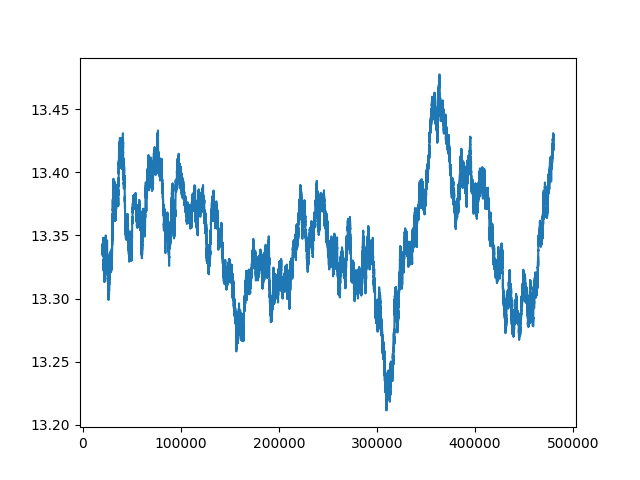
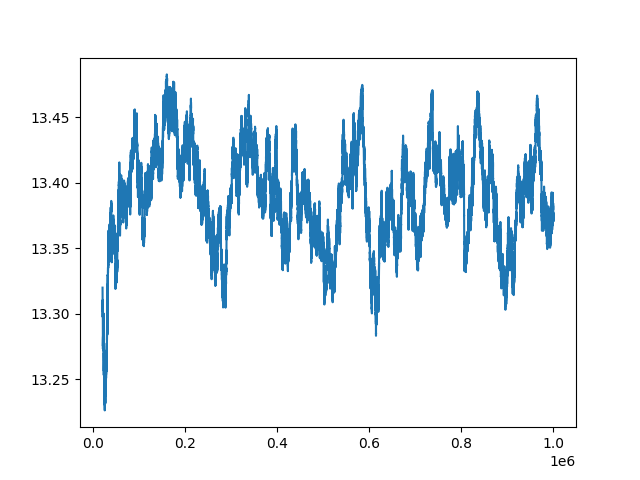
Realized I was using argmax instead of max, and implemented double DQN.

diff --git a/learning/algorithms.py b/learning/algorithms.py
@@ -3,7 +3,7 @@ ToDo:
 Integrate policy gradient.
 Implement Q-Learning
 """
-
+import copy
 import random
 import numpy as np
 import torch
@@ -109,10 +109,13 @@ class SoftSARSA(ReinforcementAlgorithm):
         trainer.networks["Q"].train(featuresTensor, rewardTensor)
 
 class SoftQ(ReinforcementAlgorithm):
+    def __init__(self):
+        self.episodeCount = 0
+
     def networks(self):
-        return ["Q"]
+        return ["Q1", "Q2"]
     def activePolicy(self):
-        return "Q"
+        return "Q1"
 
     def createRawExperience(self, trainer: ReinforcementTrainer, actionInfo: ActionInfo, stateInfo: StateInfo):
         return actionInfo, stateInfo
@@ -153,18 +156,32 @@ class SoftQ(ReinforcementAlgorithm):
                 futureWeightingBatch[i,j] = discountFactor
             i += 1
 
-        nextActionSpaceTensor = torch.from_numpy(nextActionSpaceBatch)
-        futureWeightingTensor = torch.from_numpy(futureWeightingBatch)
-        rewardTensor = torch.from_numpy(rewardBatch)
+        features = torch.from_numpy(featuresBatch)
+        nextActionSpace = torch.from_numpy(nextActionSpaceBatch)
+        futureWeighting = torch.from_numpy(futureWeightingBatch)
+        reward = torch.from_numpy(rewardBatch)
 
         with torch.no_grad():
-            nextStateValuation = trainer.networks["Q"](nextActionSpaceTensor)
-            discountedRewards = futureWeightingTensor * nextStateValuation
-            argMaxedRewards = torch.argmax(discountedRewards, dim=1)
-            rewardTensor = argMaxedRewards + rewardTensor
-        featuresTensor = torch.from_numpy(featuresBatch)
+            stateValuation = futureWeighting * trainer.networks["Q1"](nextActionSpace)
+            indexOfSelectedAction = torch.argmax(stateValuation, dim=1)
+            selectedAction = nextActionSpace[range(batchSize), indexOfSelectedAction.flatten()]
+            futureWeighting = futureWeighting[range(batchSize), indexOfSelectedAction.flatten()]
+            stateValuation = futureWeighting * trainer.networks["Q2"](selectedAction)
+            reward += stateValuation
 
-        trainer.networks["Q"].train(featuresTensor, rewardTensor)
+        trainer.networks["Q1"].train(features, reward)
+
+        self.swapNetworks(trainer)
+
+    def swapNetworks(self, trainer: ReinforcementTrainer):
+        self.episodeCount += 1
+        if self.episodeCount > Configuration.load().swapNetworkPeriod:
+            self.episodeCount = 0
+            #trainer.networks["Q1"] = copy.deepcopy(trainer.networks["Q2"])
+            temp = trainer.networks["Q1"]
+            trainer.networks["Q1"] = trainer.networks["Q2"]
+            trainer.networks["Q2"] = temp
+            trainer.setActivePolicy("Q1")
 
 def policyGradientUpdate(policy: TrainableNetwork, critic: TrainableNetwork, features, popInfo: ActionInfo):
     evaluation = critic(features)

diff --git a/configLoader.py b/configLoader.py
@@ -23,20 +23,23 @@ class Configuration:
 
     def __init__(self, data: dict):
         """The configuration details are transformed from a dictionary entry into an attribute."""
-        self.hiddenLayers = data["hiddenLayers"]
+        self.hiddenLayers = int(data["hiddenLayers"])
         self.hiddenLayerSizeFactor = data["hiddenLayerSizeFactor"]
         self.softMaxSensitivity = data["softMaxSensitivity"]
         self.softMaxOffset = data["softMaxOffset"]
-        self.argMaxSampleSize = data["argMaxSampleSize"]
 
-        self.maxStepsPerEpisode = data["maxStepsPerEpisode"]
+        self.maxStepsPerEpisode = int(data["maxStepsPerEpisode"])
         self.learningRate = data["learningRate"]
         self.entropyWeight = data["entropyWeight"]
         self.discountFactor = data["discountFactor"]
 
-        self.replayBufferSize = data["replayBufferSize"]
-        self.replayBatchSize = data["replayBatchSize"]
+        self.replayBufferSize = int(data["replayBufferSize"])
+        self.replayBatchSize = int(data["replayBatchSize"])
 
+        self.argMaxSampleSize = int(data["argMaxSampleSize"])
+        self.swapNetworkPeriod = int(data["swapNetworkPeriod"])
+
+        self.episodesPerTimeStep = int(data["episodesPerTimeStep"])
         self.qualityMomentum = data["qualityMomentum"]
 
 if __name__ == "__main__":

diff --git a/run.py b/run.py
@@ -13,7 +13,7 @@ def main(maxI: int = -1):
     xVals = []
 
     quality = BiasCorrectedMomentum(Configuration.load().qualityMomentum)
-    bigStep = quality.timeScale()
+    bigStep = Configuration.load().episodesPerTimeStep
 
     i = 0
     while maxI < 0 or i < maxI:
@@ -21,10 +21,10 @@ def main(maxI: int = -1):
         length = rlTrainer.rollout(maxStepsPerEpisode)
 
         quality.add(maxStepsPerEpisode - length)
-        if i > bigStep:
+        if i > quality.timeScale() and i % 100 == 0:
             xVals.append(i)
             yVals.append(quality.get())
-        if i > bigStep * 2 and i % (bigStep * 4) == 0:
+        if i > 0 and i % bigStep == 0:
             plt.plot(xVals, yVals)
             plt.show()
 

diff --git a/reporting/profiling.py b/reporting/profiling.py
@@ -2,7 +2,7 @@ import cProfile
 import run
 
 def main():
-    run.main(1000)
+    run.main(10000)
 
 if __name__ == "__main__":
     cProfile.run("main()", "Results/output.prof")
